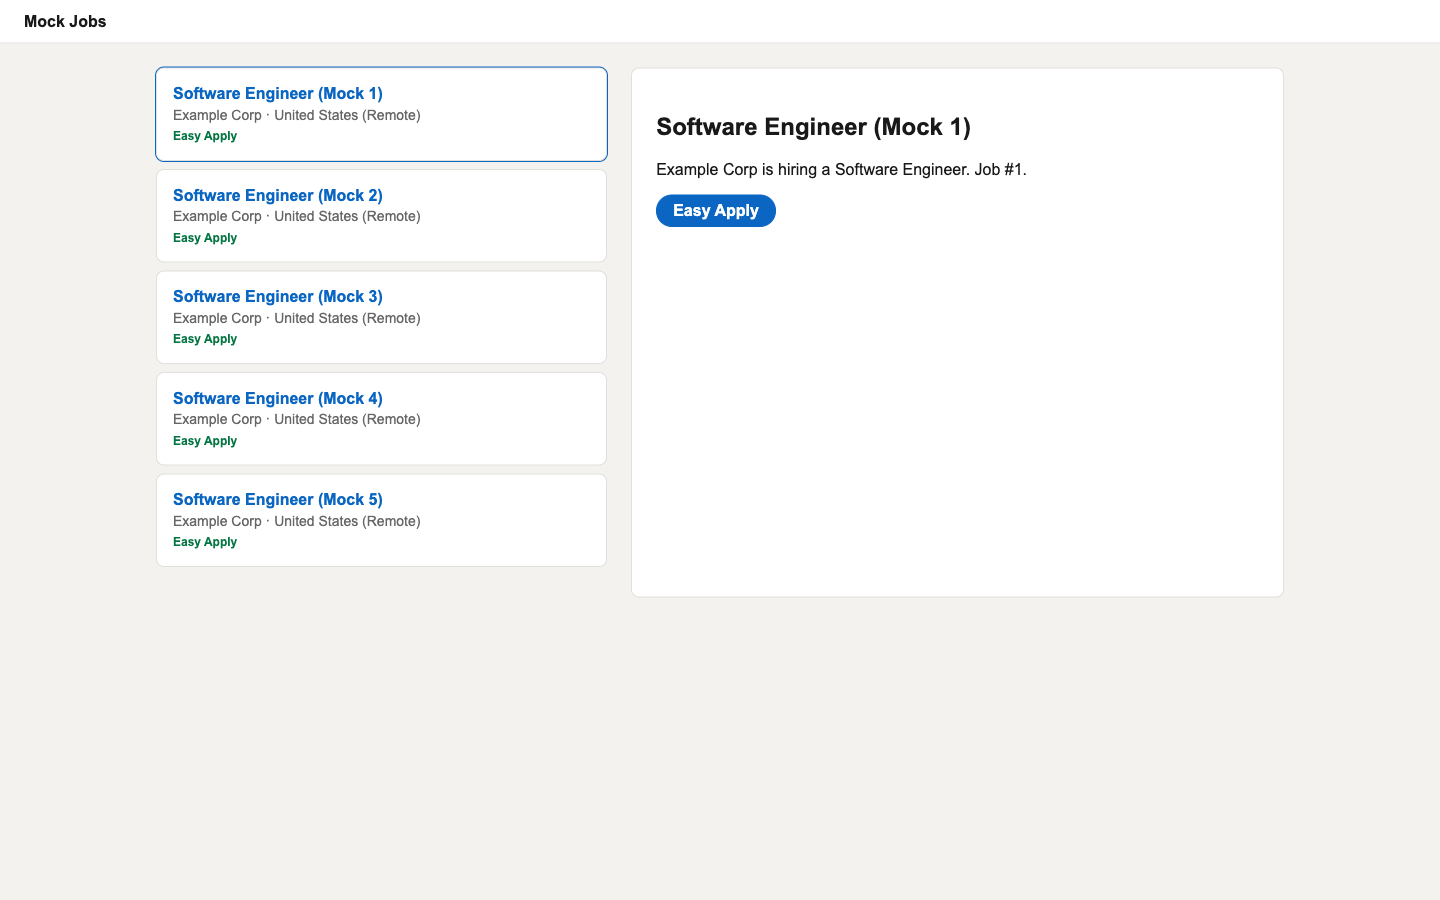
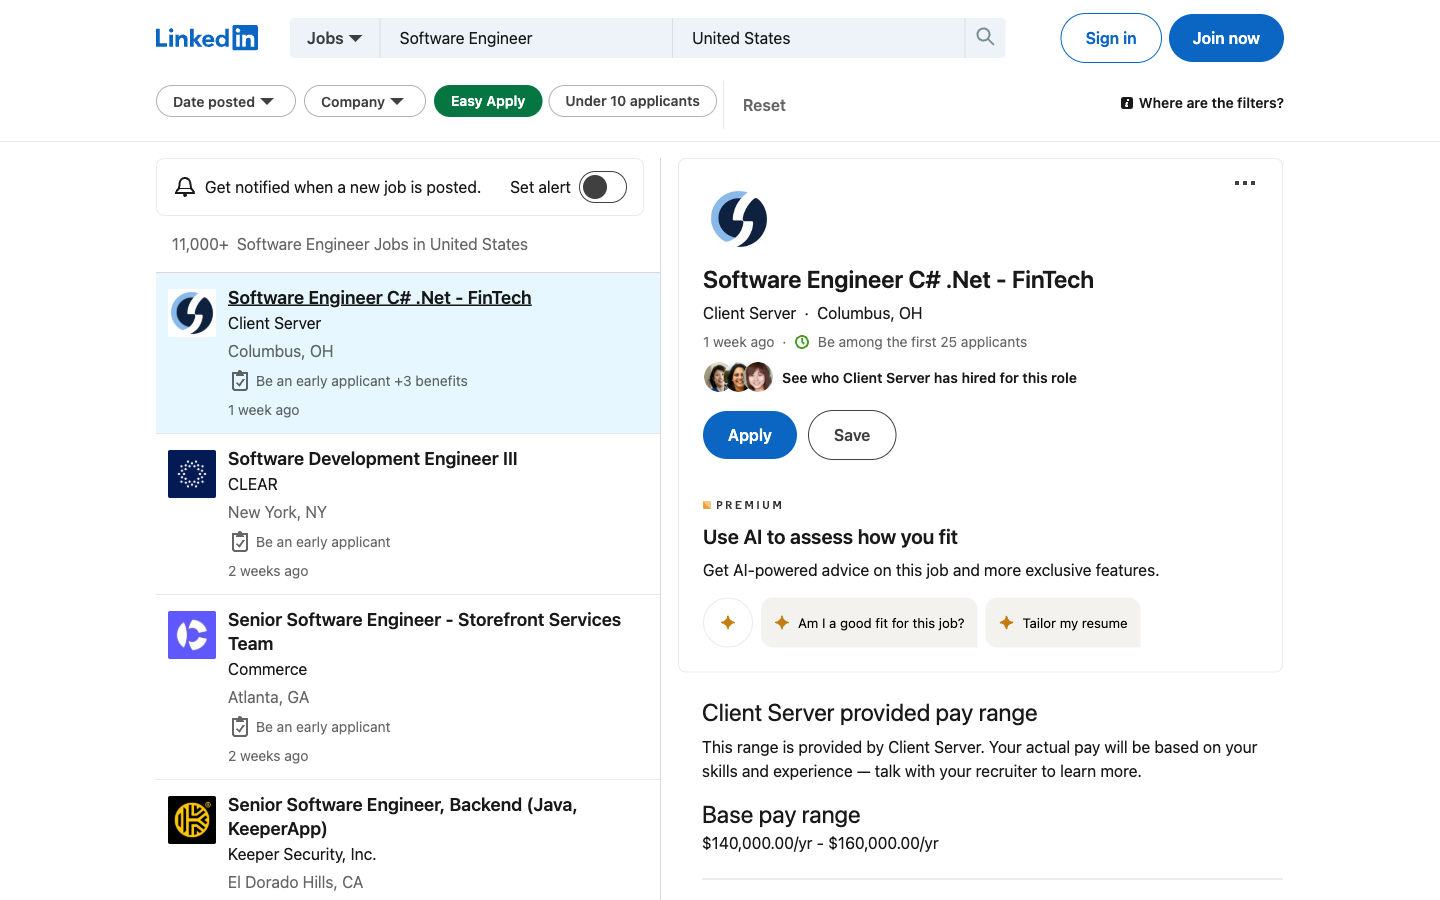
Align selectors with live production DOM; refresh screenshots from real site
- job cards: cover guest-view bare <li> under ul.jobs-search__results-list
- dismiss guest sign-in modal after card click
- demo script: en-US locale, apply-button fallback for guest CTA
- screenshots 01-03 retaken against linkedin.com (guest flow up to authwall)

diff --git a/scripts/demo-search.ts b/scripts/demo-search.ts
@@ -13,6 +13,7 @@ async function main() {
   const context = await browser.newContext({
     baseURL: process.env.BASE_URL ?? 'https://www.linkedin.com',
     viewport: { width: 1440, height: 900 },
+    locale: 'en-US',
   });
   const page = await context.newPage();
   const shot = (name: string) => page.screenshot({ path: `screenshots/${name}.png`, fullPage: false });
@@ -24,15 +25,20 @@ async function main() {
     logger.info('screenshot saved', { file: 'screenshots/01-search-results.png' });
 
     const firstCard = page
-      .locator('.job-card-container, li.jobs-search-results__list-item, li.occludable-update')
+      .locator('.job-card-container, li.jobs-search-results__list-item, li.occludable-update, ul.jobs-search__results-list > li')
       .first();
     await firstCard.scrollIntoViewIfNeeded();
     await firstCard.click();
+    await jobs.dismissGuestModal();
     await page.waitForTimeout(3000); // let the detail pane settle
     await shot('02-job-detail');
     logger.info('screenshot saved', { file: 'screenshots/02-job-detail.png' });
 
-    const easyApplyBtn = page.getByRole('button', { name: /easy apply/i }).first();
+    // logged-in jobs show "Easy Apply"; guest view shows a generic "Apply" CTA
+    const easyApplyBtn = page
+      .getByRole('button', { name: /easy apply/i })
+      .or(page.locator('button.apply-button'))
+      .first();
     if (await easyApplyBtn.isVisible().catch(() => false)) {
       await easyApplyBtn.click();
       await page.waitForTimeout(3000);

diff --git a/pages/JobsPage.ts b/pages/JobsPage.ts
@@ -18,9 +18,19 @@ export class JobsPage {
   }
 
   private get jobCards() {
+    // logged-in split-pane cards + guest-view bare <li> under the results list
     return this.page.locator(
-      '.job-card-container, li.jobs-search-results__list-item, li.occludable-update',
+      '.job-card-container, li.jobs-search-results__list-item, li.occludable-update, ul.jobs-search__results-list > li',
     );
+  }
+
+  /** Guest view pops a sign-in modal on card click; dismiss if present. */
+  async dismissGuestModal(): Promise<void> {
+    const dismiss = this.page.locator('button.modal__dismiss').first();
+    if (await dismiss.isVisible({ timeout: 3000 }).catch(() => false)) {
+      await dismiss.click();
+      logger.info('guest sign-in modal dismissed');
+    }
   }
 
   async searchWithEasyApply(keywords: string, location: string): Promise<void> {
@@ -51,6 +61,7 @@ export class JobsPage {
       const card = this.jobCards.nth(i);
       await card.scrollIntoViewIfNeeded();
       await card.click();
+      await this.dismissGuestModal();
       try {
         await expect(easyApplyBtn).toBeVisible({ timeout: 5_000 });
         await expect(easyApplyBtn).toBeEnabled();
